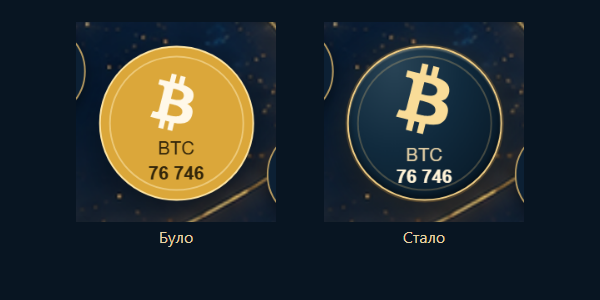
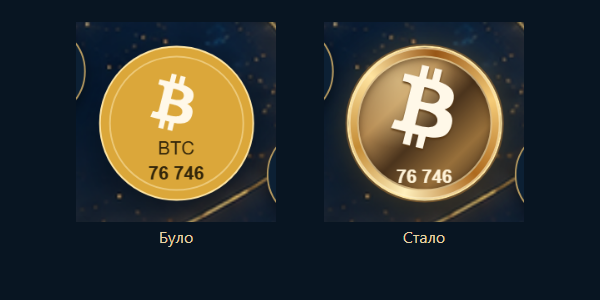
Match owner Bitcoin and oil references without resizing hero badges

Changed region(s): [[0.57, 0.15, 0.84, 0.69]]

diff --git a/frontend/src/pages/home/home-v0-approved.css b/frontend/src/pages/home/home-v0-approved.css
@@ -30,11 +30,13 @@
 .v0-coin-face { width: 100%; height: 100%; display: grid; place-items: center; border-radius: 50%; background: #0c2034; border: 1px solid #b69a60; box-shadow: 0 3px 9px #0007; }
 .v0-coin-face img { width: 53%; height: 53%; object-fit: contain; transform: translateY(-15%); }
 .v0-coin-symbol { position: absolute; bottom: 10%; left: 0; width: 100%; text-align: center; color: #e6edf6; font: 600 clamp(6px,.48vw,10px)/1 Arial,sans-serif; white-space: nowrap; }
-.v0-coin-btc .v0-coin-face { position: relative; background: radial-gradient(ellipse at 30% 12%,#294456 0%,#112b3e 45%,#061522 100%); border-color: #f0cd84; box-shadow: inset 0 1px 1px #fff2c94d, inset 0 -2px 5px #0008, 0 0 0 1px #bc89394d, 0 0 22px #e8b65426, 0 8px 24px #0006; }
-.v0-coin-btc .v0-coin-face::before { content: ''; position: absolute; inset: 5%; border: 1px solid #e9c57c45; border-radius: 50%; pointer-events: none; }
-.v0-coin-btc .v0-coin-face img { width: 54%; height: 54%; transform: translateY(-28%); }
+.v0-coin-btc .v0-coin-face { position: relative; background: conic-gradient(from 135deg,#ae6a1e,#fff0bd 17%,#c58c35 32%,#ffe4a0 49%,#985717 65%,#f6cd79 82%,#ae6a1e); border-color: #ffe7a4; box-shadow: inset 0 0 0 1px #fff4c999, 0 0 0 1px #b67a3280, 0 0 22px #f6bf584d, 0 8px 24px #0008; }
+.v0-coin-btc .v0-coin-face::before { content: ''; position: absolute; inset: 5%; border: 1px solid #ffe6ae99; border-radius: 50%; background: radial-gradient(ellipse at 30% 18%,#ffe8ad80,transparent 44%),linear-gradient(135deg,#71512f 0%,#b58a52 32%,#4b341d 53%,#98703b 75%,#3b2919 100%); box-shadow: inset 0 1px 4px #30190680; pointer-events: none; }
+.v0-coin-btc .v0-coin-face img { position: relative; width: 64%; height: 64%; transform: translateY(-14%); filter: drop-shadow(0 1px .5px #563510); }
 .v0-coin-btc .v0-quote { top: auto; bottom: 9%; padding: 0; border: 0; background: transparent; color: #decba3; flex-direction: column; gap: 0; font-size: clamp(7px,.57vw,11px); line-height: 1.15; }
 .v0-coin-btc .v0-quote strong { color: #fff3d8; }
+.v0-coin-oil .v0-coin-face { background: linear-gradient(145deg,#f2f5f8 0%,#cbd5df 60%,#9cabbc 100%); border-color: #e6d7b5; box-shadow: inset 0 1px 1px #fff9, 0 3px 9px #0007; }
+.v0-coin-oil .v0-coin-symbol { color: #182331; }
 .v0-coin-apple .v0-coin-face img { filter: invert(1); }
 .v0-coin-nvidia .v0-coin-face img { filter: invert(76%) sepia(82%) saturate(784%) hue-rotate(27deg) brightness(98%); }
 .v0-quote { position: absolute; top: 105%; left: 50%; transform: translateX(-50%); display: flex; align-items: center; gap: 5px; white-space: nowrap; font-variant-numeric: tabular-nums; font-size: clamp(9px,.67vw,13px); line-height: 1.4; padding: 2px 6px; border: 1px solid #c7a36280; border-radius: 9px; color: #d4dfec; background: #071828ee; }

diff --git a/frontend/src/pages/home/HomeV0Coins.tsx b/frontend/src/pages/home/HomeV0Coins.tsx
@@ -54,7 +54,7 @@ export function HomeV0Coins({ market }: { market: HomeMarket }) {
             {index > 0 && <span className="v0-coin-symbol">{instrument.ticker}</span>}
           </div>
           {index === 0 && <div className="v0-quote" data-state={quote.state} title={instrument.symbol + ' · ' + instrument.market.toUpperCase() + ' · ' + quote.state}>
-            <span>{instrument.ticker}</span><strong>{scenePrice(quote.price, lang)}</strong>
+            <strong>{scenePrice(quote.price, lang)}</strong>
           </div>}
         </div>;
       })}

diff --git a/docs/AI_HANDOFF.md b/docs/AI_HANDOFF.md
@@ -5973,3 +5973,6 @@ The 20 desktop assets, 6/6/7 rings, 12 mobile assets, 14/19/25-second periods, l
 ## Codex — 2026-10-09 — Central Bitcoin visual refinement (Draft #488)
 
 Continues the same branch from `c402024824dc053af4e0704cd69152a4f4bd54d8`; implementation SHA is the commit containing this entry. Changed only the central BTC styles in `home-v0-approved.css`, BTC SVG viewBox/fill (canonical path unchanged), source note and review evidence `docs/qa/home-v0-motion/btc-before-after.png`. Replaced the flat mustard disc with a navy face, fine champagne rim and larger gold Bitcoin mark; compacted the existing quote line height to keep clear separation at 320–1920px. All 20 identities, orbit geometry/speeds, other badges, homepage layout, quote data and API behavior are preserved. Checks: TypeScript/build, 179 homepage tests, isolated responsive/seven-language/motion/reference browser QA and explicit image/quote clearance at 1920/1440/390/320; exact-head CI is verified after push. No merge or production deployment; owner visual review remains the next step.
+## Codex — 2026-10-09 — Owner-reference BTC and oil symbols (Draft #488)
+
+Follow-up from `4d9192ee8b04f4bf919a751b2c9542800d211b8d`; implementation SHA is the commit containing this entry. The owner supplied final visual references: BTC uses a metallic gold bevel with a bronze face and warm white canonical symbol, retaining its existing outer size; its duplicate visible `BTC` label is removed and the symbol enlarged, while the real quote remains. WTI now uses a simple black drop on a light silver badge, replacing the barrel. Changed only `HomeV0Coins.tsx` central label, scoped BTC/WTI styles, local SVG/provenance and review screenshots. All 20 desktop / 12 mobile identities, orbit geometry, speeds, layout and financial/data behavior are preserved. Local checks: TypeScript/build, 179/179 homepage tests, responsive QA at nine widths/seven locales, motion/reference QA, plus independent desktop/mobile glyph and price-clearance review. BTC remains 92.50px at 1920 and 57.83px at 320. No merge/deploy; final exact-head CI and owner visual review remain the publication gate.

diff --git a/frontend/public/images/home-v0/asset-icons/SOURCES.md b/frontend/public/images/home-v0/asset-icons/SOURCES.md
@@ -33,7 +33,7 @@ Existing glyphs retained from the previous Hero revision:
 - `apple.svg`: [Apple / Simple Icons](https://github.com/simple-icons/simple-icons/blob/develop/icons/apple.svg).
 - `nvidia.svg`: [NVIDIA / Simple Icons](https://github.com/simple-icons/simple-icons/blob/develop/icons/nvidia.svg).
 - `btc.svg`, `eth.svg`: [Bitcoin and Ethereum / cryptocurrency-icons](https://github.com/spothq/cryptocurrency-icons/tree/1a63530be6e374711a8554f31b17e4cb92c25fa5/svg/black). The previously sourced CC0 glyphs retain their recognizable paths, without decorative plates.
-  BTC uses a tighter viewBox and champagne fill for a clearer central mark; its upstream path is unchanged. The navy face and fine gold rim are scoped Hero CSS.
+  BTC uses a tighter viewBox and warm white fill for a clearer central mark; its upstream path is unchanged. The metallic gold rim and bronze face follow the owner's reference and use scoped Hero CSS.
 
 `xrp.svg` uses the conventional [XRP ribbon glyph from cryptocurrency-icons](https://github.com/spothq/cryptocurrency-icons/blob/1a63530be6e374711a8554f31b17e4cb92c25fa5/svg/color/xrp.svg).
 `trx.svg` uses the [TRON glyph from cryptocurrency-icons](https://github.com/spothq/cryptocurrency-icons/blob/1a63530be6e374711a8554f31b17e4cb92c25fa5/svg/color/trx.svg).
@@ -48,7 +48,7 @@ assets use deliberately neutral original vector symbols, accompanied by
 the instrument ticker in the Hero:
 
 - `gold.svg`: bullion bars for XAU.
-- `oil.svg`: solid steel oil drum with broad hoops and a contrasting oil drop for WTI; an original neutral pictogram designed to remain legible at small icon sizes, not a corporate logo.
+- `oil.svg`: simple black oil drop with a small highlight, matching the owner's reference; original neutral WTI symbol, not a corporate logo. A light silver Hero badge preserves its contrast at small sizes.
 - `eurusd.svg`: euro and dollar symbols.
 - `usdjpy.svg`: dollar and yen symbols.
 - `us500.svg`: index bars/line for US500.
